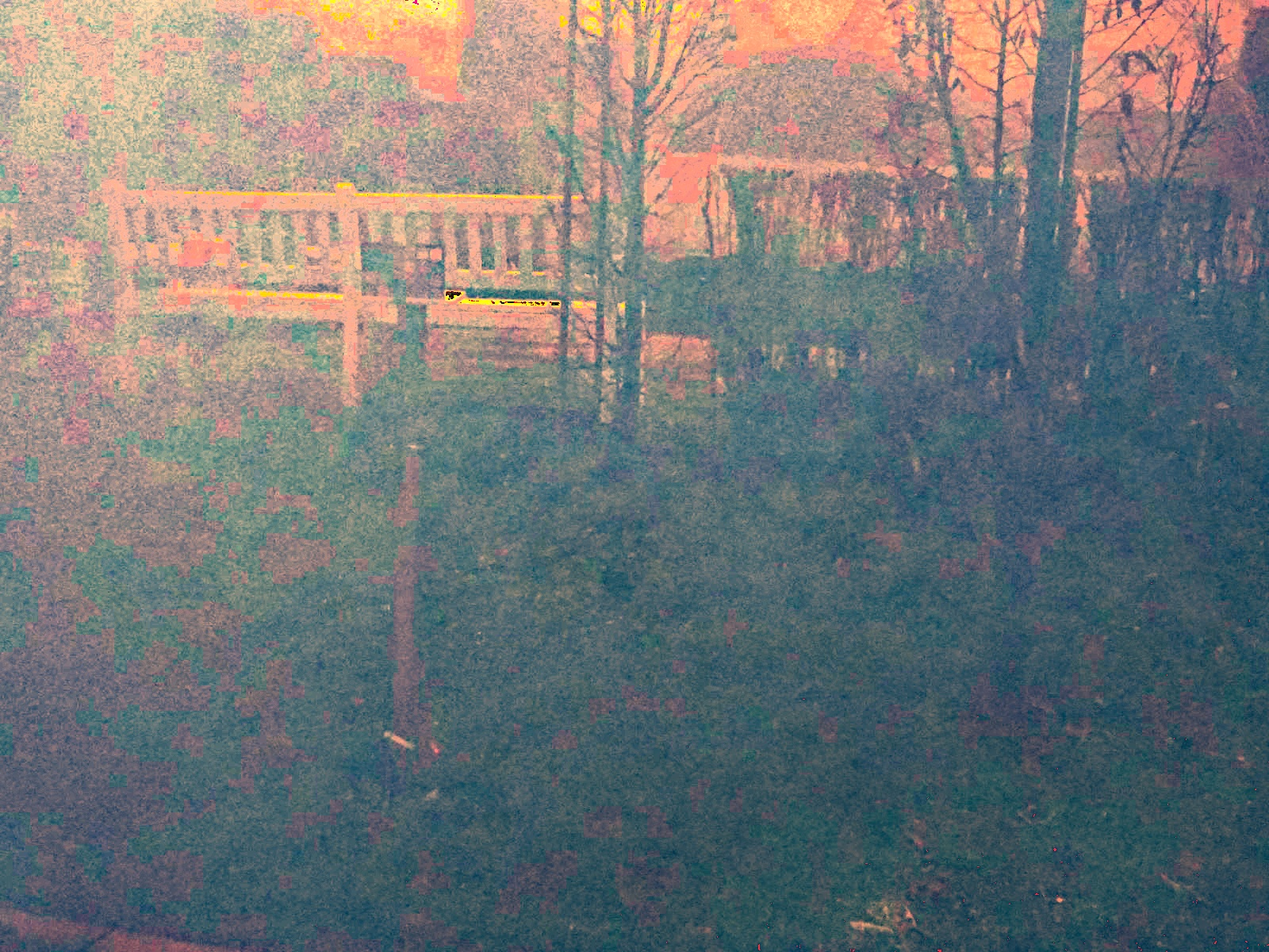
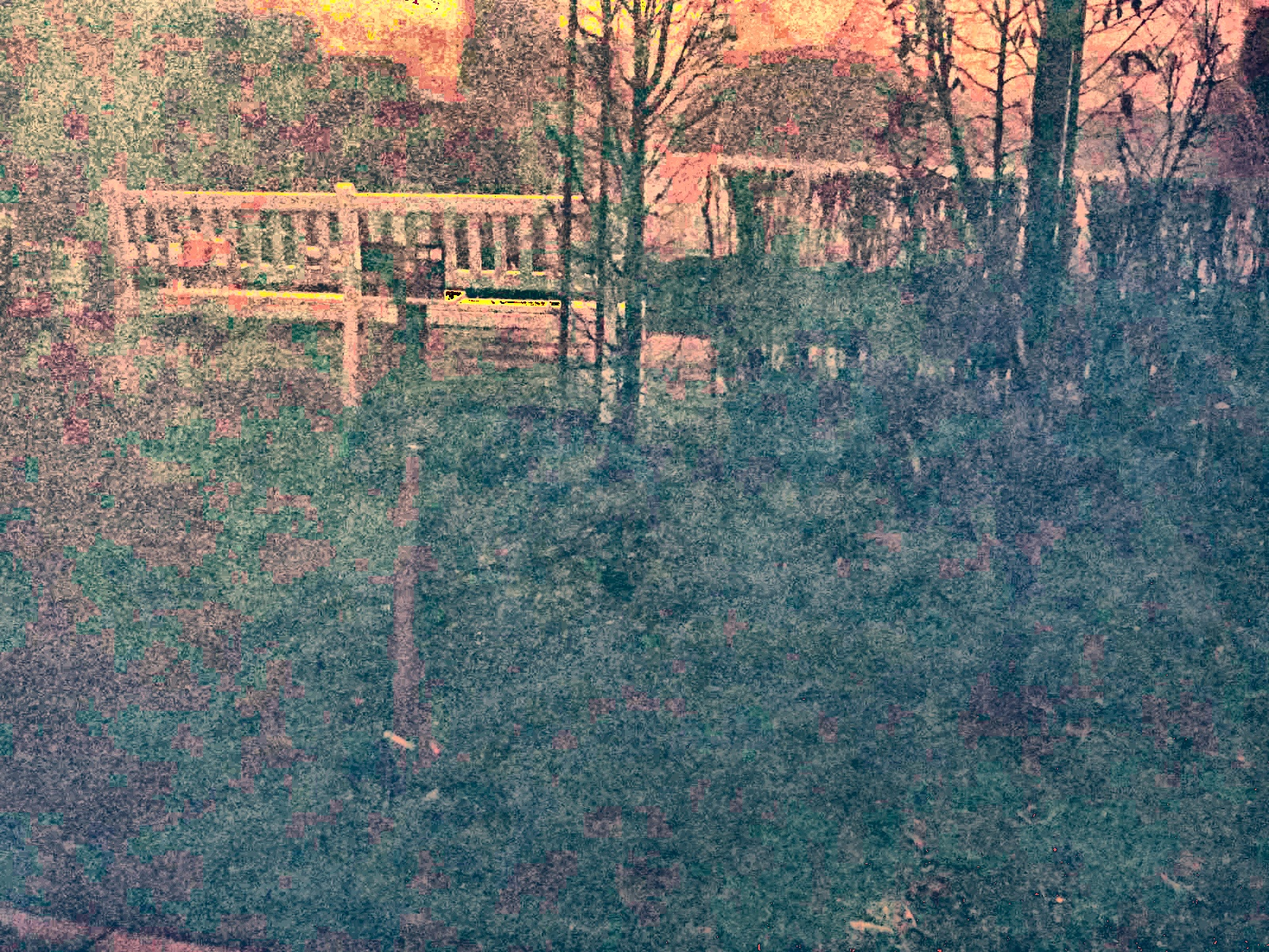
圖像功能混用

diff --git a/dehaze.py b/dehaze.py
@@ -143,6 +143,32 @@ def white_balance(img):
 
     return img_balanced.astype(np.uint8) # 將影像轉換回 uint8 格式
 
+def color_correction_lab(img):
+    """
+        使用 Lab 色彩空間進行顏色校正
+    """
+    lab = cv.cvtColor(img, cv.COLOR_BGR2Lab)
+    l, a, b = cv.split(lab)
+
+    # 計算平均值
+    l_mean = np.mean(l)
+    a_mean = np.mean(a)
+    b_mean = np.mean(b)
+
+    # 計算增益
+    l_gain = 100 / l_mean
+    a_gain = 128 / a_mean
+    b_gain = 128 / b_mean
+
+    # 調整顏色
+    l = np.clip(l * l_gain, 0, 255).astype(np.uint8)
+    a = np.clip(a * a_gain, 0, 255).astype(np.uint8)
+    b = np.clip(b * b_gain, 0, 255).astype(np.uint8)
+
+    lab_corrected = cv.merge((l, a, b))
+    
+    return cv.cvtColor(lab_corrected, cv.COLOR_Lab2BGR)
+
 # 調整亮度
 
 def increase_brightness_hsv(img, factor=1.2):
@@ -157,18 +183,18 @@ def increase_brightness_hsv(img, factor=1.2):
 
     return cv.cvtColor(hsv, cv.COLOR_HSV2BGR)
 
-# def apply_clahe(img):
-#     """
-#         對影像亮度通道使用 CLAHE 增亮
-#     """
-#     lab = cv.cvtColor(img, cv.COLOR_BGR2LAB)
-#     l, a, b = cv.split(lab)
+def apply_clahe(img):
+    """
+        對影像亮度通道使用 CLAHE 增亮
+    """
+    lab = cv.cvtColor(img, cv.COLOR_BGR2LAB)
+    l, a, b = cv.split(lab)
 
-#     clahe = cv.createCLAHE(clipLimit=2.0, tileGridSize=(8, 8))
-#     l = clahe.apply(l)
+    clahe = cv.createCLAHE(clipLimit=2.0, tileGridSize=(8, 8))
+    l = clahe.apply(l)
 
-#     lab = cv.merge((l, a, b))
-#     return cv.cvtColor(lab, cv.COLOR_LAB2BGR)
+    lab = cv.merge((l, a, b))
+    return cv.cvtColor(lab, cv.COLOR_LAB2BGR)
 
 if __name__ == '__main__':
     input_image_path = './input_image/'
@@ -199,9 +225,9 @@ if __name__ == '__main__':
         RefineMap = (RefineMap * 255).astype('uint8')
         DeHazeImg = (DeHazeImg * 255).astype('uint8')
         DeHazeImg = white_balance(DeHazeImg)
-        # DeHazeImg = color_correction_lab(DeHazeImg)
+        DeHazeImg = color_correction_lab(DeHazeImg)
         DeHazeImg = increase_brightness_hsv(DeHazeImg, 1.2)
-        # DeHazeImg = apply_clahe(DeHazeImg)
+        DeHazeImg = apply_clahe(DeHazeImg)
 
         cv.imwrite(tmp_path + 'drak'+ fn, dark)
         cv.imwrite(tmp_path + 'teMap' + fn, teMap)

diff --git a/psnrssim.py b/psnrssim.py
@@ -50,4 +50,4 @@ def compute_metrics(original_dir, processed_dir):
 
 
 if __name__ == "__main__":
-    compute_metrics('./input_image/', './output_image/')
+    compute_metrics('./gt/', './output_image/')
